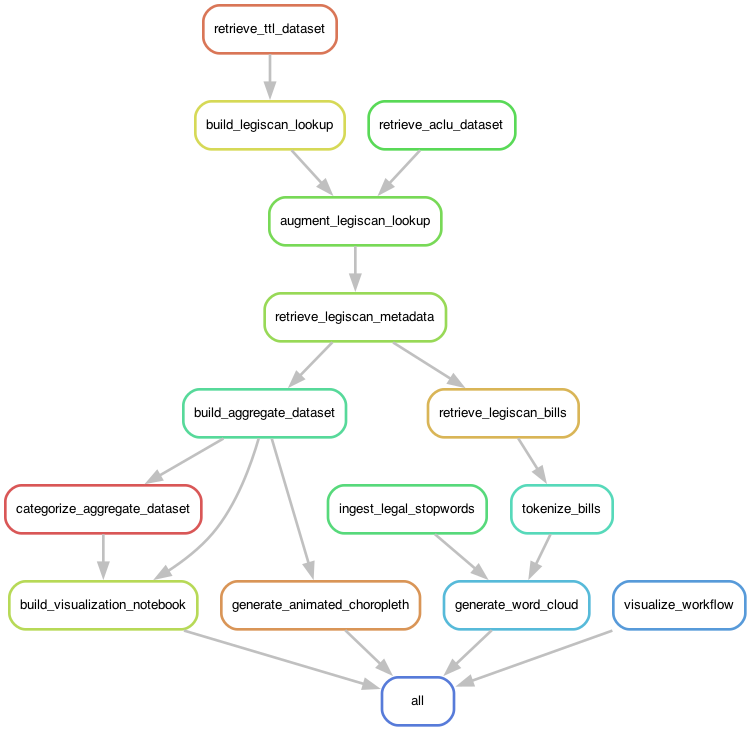
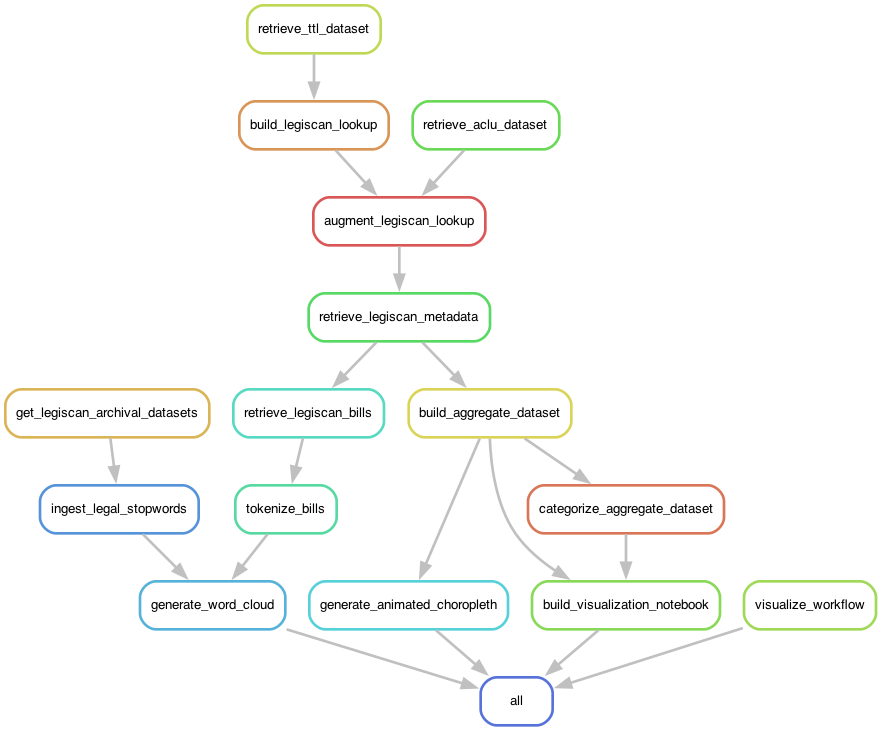
start building back neutral corpus pipeline

Changed region(s): [[0.0, 0.0, 1.0, 1.0]]

diff --git a/lib/tasks/visualization/generate_word_cloud.py b/lib/tasks/visualization/generate_word_cloud.py
@@ -18,19 +18,6 @@ def generate_word_cloud(
     )
 
     # https://matplotlib.org/stable/tutorials/colors/colormaps.html
-    #     supported values are 'Accent', 'Accent_r', 'Blues', 'Blues_r', 'BrBG', 'BrBG_r', 'BuGn', 'BuGn_r', 'BuPu', 'BuPu_r', 'CMRmap', 'CMRmap_r',
-    #     'Dark2', 'Dark2_r', 'GnBu', 'GnBu_r', 'Greens', 'Greens_r', 'Greys', 'Greys_r', 'OrRd', 'OrRd_r', 'Oranges', 'Oranges_r', 'PRGn', 'PRGn_r',
-    #     'Paired', 'Paired_r', 'Pastel1', 'Pastel1_r', 'Pastel2', 'Pastel2_r', 'PiYG', 'PiYG_r', 'PuBu', 'PuBuGn', 'PuBuGn_r', 'PuBu_r', 'PuOr', 'PuOr_r',
-    #     'PuRd', 'PuRd_r', 'Purples', 'Purples_r', 'RdBu', 'RdBu_r', 'RdGy', 'RdGy_r', 'RdPu', 'RdPu_r', 'RdYlBu', 'RdYlBu_r', 'RdYlGn', 'RdYlGn_r',
-    #     'Reds', 'Reds_r', 'Set1', 'Set1_r', 'Set2', 'Set2_r', 'Set3', 'Set3_r', 'Spectral', 'Spectral_r', 'Wistia', 'Wistia_r', 'YlGn', 'YlGnBu', 'YlGnBu_r',
-    #     'YlGn_r', 'YlOrBr', 'YlOrBr_r', 'YlOrRd', 'YlOrRd_r', 'afmhot', 'afmhot_r', 'autumn', 'autumn_r', 'binary', 'binary_r', 'bone', 'bone_r', 'brg',
-    #     'brg_r', 'bwr', 'bwr_r', 'cividis', 'cividis_r', 'cool', 'cool_r', 'coolwarm', 'coolwarm_r', 'copper', 'copper_r', 'cubehelix', 'cubehelix_r', 'flag',
-    #     'flag_r', 'gist_earth', 'gist_earth_r', 'gist_gray', 'gist_gray_r', 'gist_heat', 'gist_heat_r', 'gist_ncar', 'gist_ncar_r', 'gist_rainbow',
-    #     'gist_rainbow_r', 'gist_stern', 'gist_stern_r', 'gist_yarg', 'gist_yarg_r', 'gnuplot', 'gnuplot2', 'gnuplot2_r', 'gnuplot_r', 'gray', 'gray_r',
-    #     'hot', 'hot_r', 'hsv', 'hsv_r', 'inferno', 'inferno_r', 'jet', 'jet_r', 'magma', 'magma_r', 'nipy_spectral', 'nipy_spectral_r', 'ocean', 'ocean_r',
-    #     'pink', 'pink_r', 'plasma', 'plasma_r', 'prism', 'prism_r', 'rainbow', 'rainbow_r', 'seismic', 'seismic_r', 'spring', 'spring_r', 'summer', 'summer_r',
-    #     'tab10', 'tab10_r', 'tab20', 'tab20_r', 'tab20b', 'tab20b_r', 'tab20c', 'tab20c_r', 'terrain', 'terrain_r', 'turbo', 'turbo_r', 'twilight', 'twilight_r',
-    #     'twilight_shifted', 'twilight_shifted_r', 'viridis', 'viridis_r', 'winter', 'winter_r'
 
     wordcloud = WordCloud(
         width=2560,

diff --git a/lib/tasks/get_legiscan_datasets.py b/lib/tasks/get_legiscan_datasets.py
@@ -6,6 +6,7 @@ from typing import Any, List
 from urllib.parse import urljoin
 
 from bs4 import BeautifulSoup as Soup
+import typer
 
 from lib.legiscan import make_legiscan_session
 
@@ -58,3 +59,14 @@ def get_legiscan_datasets(work_dir: str, year: str='2023', *, force: bool = Fals
             in table_data
             if year in item.session
         ]
+
+def main(
+    work_dir: str,
+    year: str = typer.Option('2023'),
+):
+    """The CLI for this task"""
+    # always force--let snakemake decide if we need to do this
+    get_legiscan_datasets(work_dir, year, force=True)
+
+if __name__ == "__main__":
+    typer.run(main)
